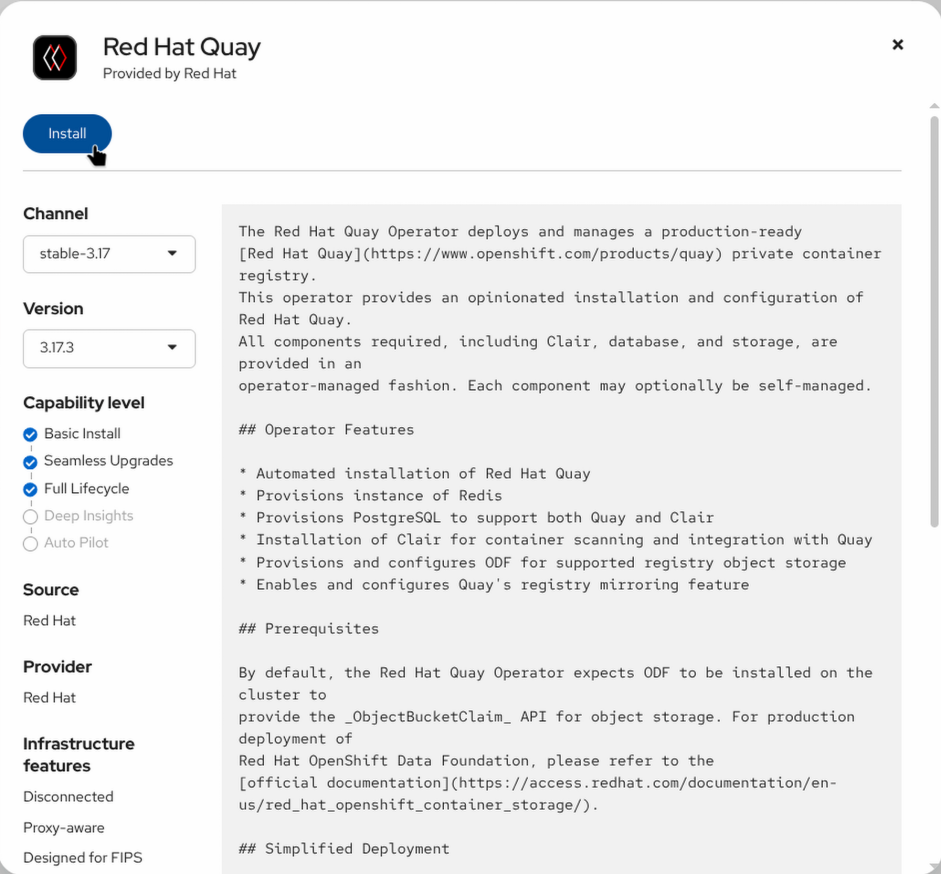
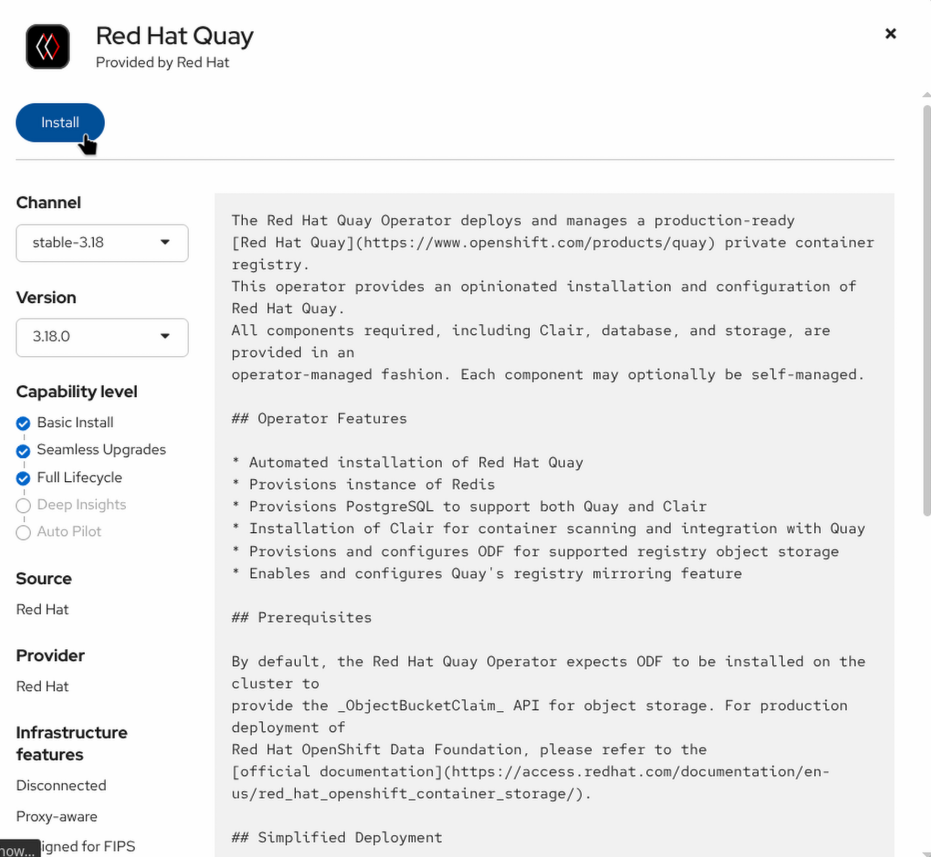
Deploying to gh-pages from @ aolle/quay-workshop@f5aad53acd87656b5783618da5d8fb61371f1e6d 🚀

diff --git a/index.html b/index.html
@@ -3,7 +3,7 @@
   <head>
     <meta charset="utf-8">
     <meta name="viewport" content="width=device-width,initial-scale=1">
-    <title>Red Hat Quay 3.17.3 Workshop :: Red Hat Quay Workshop</title>
+    <title>Red Hat Quay 3.18 Workshop :: Red Hat Quay Workshop</title>
     <link rel="canonical" href="https://olleb.com/quay-workshop/index.html">
     <link rel="next" href="setup.html">
     <meta name="generator" content="Antora 3.0.3">
@@ -265,14 +265,14 @@
 <nav class="breadcrumbs" aria-label="breadcrumbs">
   <ul>
     <li><a href="index.html">Red Hat Quay Workshop</a></li>
-    <li><a href="index.html">Red Hat Quay 3.17.3 Workshop</a></li>
+    <li><a href="index.html">Red Hat Quay 3.18 Workshop</a></li>
   </ul>
 </nav>
   <div style="padding: 0 0.5rem 0 0.75rem;"><a href="https://olleb.com" target="_blank" rel="noopener noreferrer"> © Àngel Ollé Blázquez</a></div>
 </div>
   <div class="content">
 <article class="doc">
-<h1 class="page">Red Hat Quay 3.17.3 Workshop</h1>
+<h1 class="page">Red Hat Quay 3.18 Workshop</h1>
 <div class="sect1 text-center strong">
 <h2>Introduction</h2>
 <div class="sectionbody">
